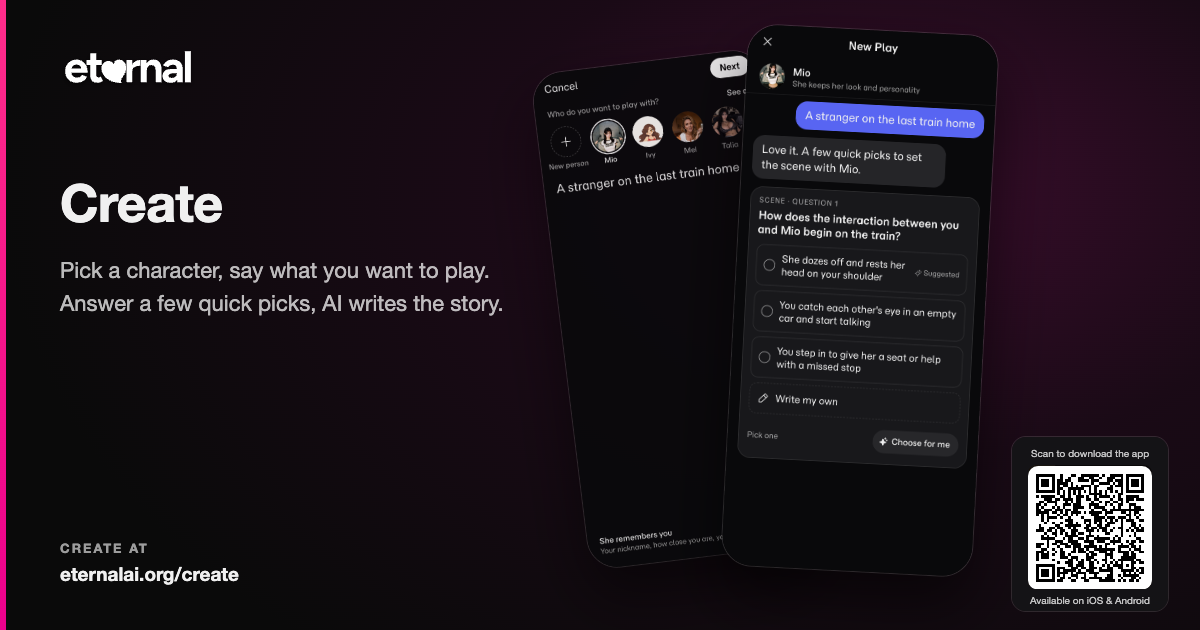
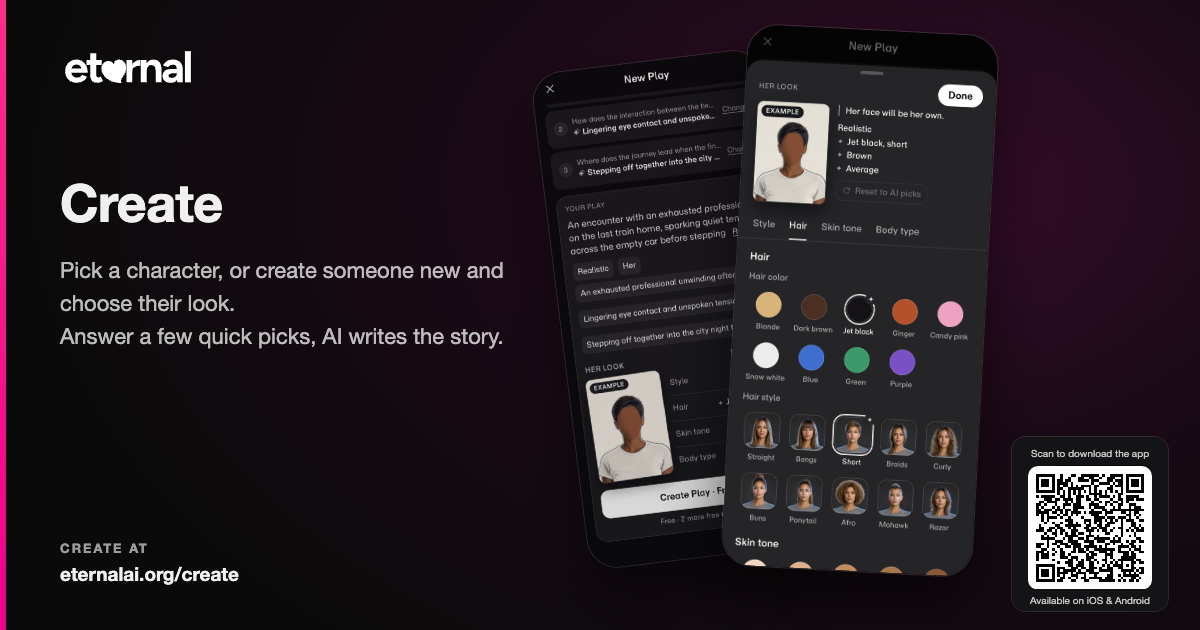
README: Create shows choosing a new person's look; new create.png

Changed region(s): [[0.4625, 0.0603, 0.8325, 0.9349], [0.0308, 0.4222, 0.4317, 0.5429]]

diff --git a/README.md b/README.md
@@ -63,7 +63,7 @@ Flings are illustrated, comic-style episodes starring Eternal AI characters. Swi
 
 ### ✨ Create
 
-Pick a character — or a new person — and say what you want to play. Answer a few quick picks (or tap **Choose for me**), and AI writes the Play for you.
+Pick a character, or create a new person and choose their look (style, hair, skin tone, body type). Say what you want to play, answer a few quick picks (or tap **Choose for me**), and AI writes the Play for you.
 
 [![Create on Eternal AI](media-kit/app/create.png)](https://eternalai.org/create)
 
